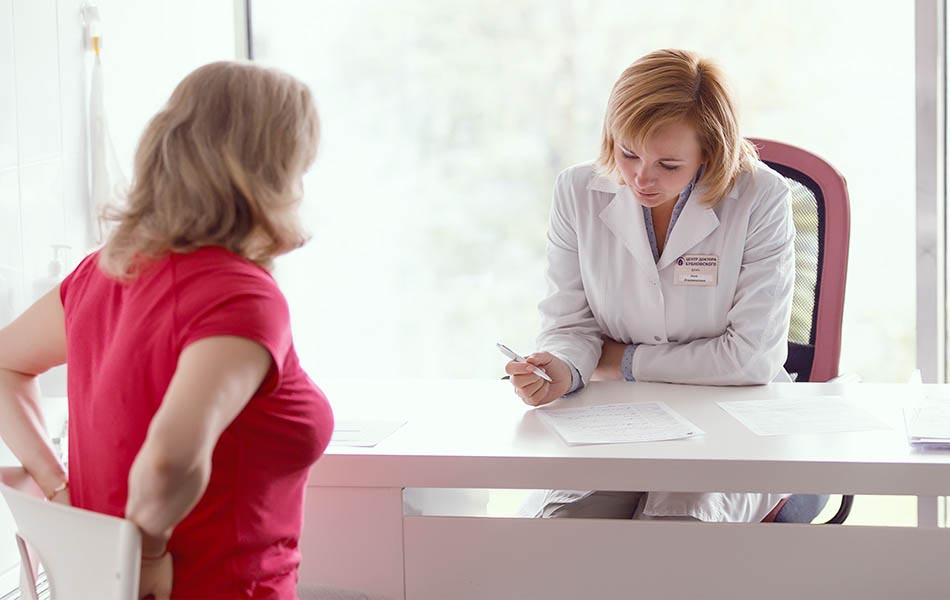
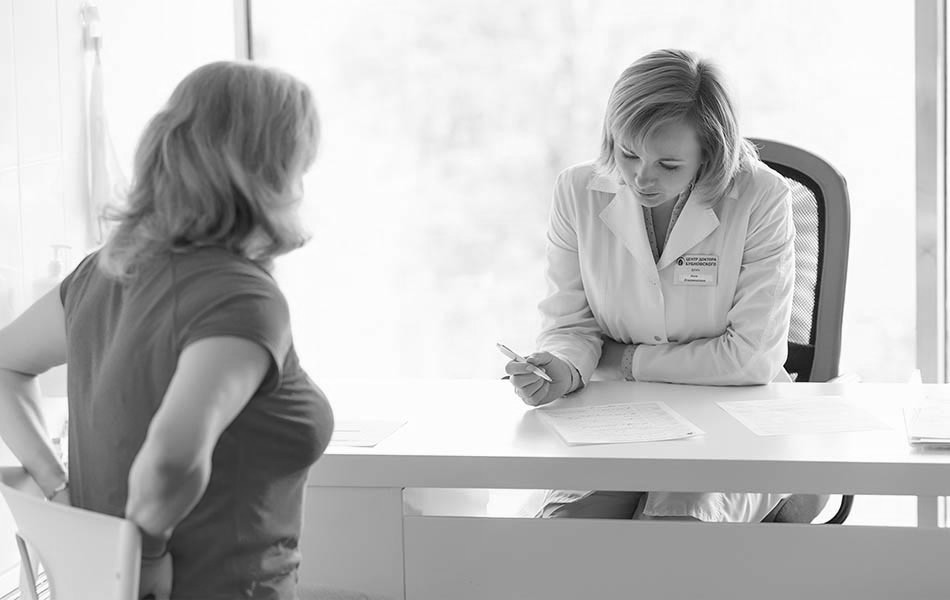
:bug: Some fixes: undefined appType in confirmation appointment page; update images; etc

diff --git a/client/src/redux/reducers/newAppointment/AppointmentFinishReducer/AppointmentFinishActions.ts b/client/src/redux/reducers/newAppointment/AppointmentFinishReducer/AppointmentFinishActions.ts
@@ -1,8 +1,9 @@
-import {SET_APPOINTMENT_FINISH_DATA, SET_APPOINTMENT_TYPE} from '../../../types';
+import {SET_APPOINTMENT_FINISH_DATA} from '../../../types';
 import {newAppointmentAPI} from '../../../../API/api';
 import {setMessage} from '../../appReducer/appAction';
 
 type setAppointmentFinishDataPayloadType = {
+  appointmentType: string | null
   date: Date,
   time: Date,
   isSelected: boolean,
@@ -12,16 +13,18 @@ type setAppointmentFinishDataType = {
   payload: setAppointmentFinishDataPayloadType,
 }
 export const setAppointmentFinishData = (date: Date, time: Date, isSelected: boolean): setAppointmentFinishDataType => {
-  return {type: SET_APPOINTMENT_FINISH_DATA, payload: {date, time, isSelected}}
+  const appointmentType = localStorage.getItem('appointmentType');
+  console.log('appointmentType', appointmentType);
+  return {type: SET_APPOINTMENT_FINISH_DATA, payload: {appointmentType, date, time, isSelected}}
 }
 
-type setAppointmentType = {
-  type: typeof SET_APPOINTMENT_TYPE,
-  payload: {appointmentType: string}
-}
-export const setAppointmentType = (appointmentType: string): setAppointmentType => {
-  return {type: SET_APPOINTMENT_TYPE, payload: {appointmentType}}
-}
+// type setAppointmentType = {
+//   type: typeof SET_APPOINTMENT_TYPE,
+//   payload: {appointmentType: string}
+// }
+// export const setAppointmentType = (appointmentType: string): setAppointmentType => {
+//   return {type: SET_APPOINTMENT_TYPE, payload: {appointmentType}}
+// }
 
 export const addPatient = (date: Date, time: Date, appointmentType: string) => {
   return async (dispatch: any, getState: any) => {

diff --git a/client/src/components/NewAppointment/AppointmentType/TypeFooter/TypeFooter.jsx b/client/src/components/NewAppointment/AppointmentType/TypeFooter/TypeFooter.jsx
@@ -5,8 +5,14 @@ import {useHistory} from "react-router-dom";
 
 const {Meta} = Card;
 
-const TypeFooter = ({title, content, cardImg, cardTitle, cardDesc, link, priceImg, appType, setAppointmentType}) => {
+const TypeFooter = ({title, content, cardImg, cardTitle, cardDesc, link, priceImg, appType}) => {
   const history = useHistory();
+
+  const onCardClick = () => {
+    //setAppointmentType(appType);
+    localStorage.setItem('appointmentType', appType);
+    history.push(link);
+  }
 
   const info = (e) => {
     e.stopPropagation();
@@ -36,11 +42,6 @@ const TypeFooter = ({title, content, cardImg, cardTitle, cardDesc, link, priceIm
       },
     });
   };
-
-  const onCardClick = () => {
-    setAppointmentType(appType);
-    history.push(link);
-  }
 
   return (
       <Card hoverable

diff --git a/client/src/components/NewAppointment/NewAppointment.jsx b/client/src/components/NewAppointment/NewAppointment.jsx
@@ -2,7 +2,6 @@ import React from 'react';
 import AppointmentType from './AppointmentType/AppointmentType';
 import NewAppointmentStyles from './NewAppointment.module.scss';
 import {connect} from "react-redux";
-import {setAppointmentType} from '../../redux/reducers/newAppointment/AppointmentFinishReducer/AppointmentFinishActions';
 
 
 const NewAppointment = (props) => {
@@ -21,7 +20,7 @@ const mapStateToProps = state => {
   }
 }
 
-export default connect(mapStateToProps, {setAppointmentType})(NewAppointment);
+export default connect(mapStateToProps, {})(NewAppointment);
 
 
 

diff --git a/controllers/adminControllers/appointmentController.js b/controllers/adminControllers/appointmentController.js
@@ -78,5 +78,3 @@ class AppointmentController {
 }
 
 module.exports = new AppointmentController();
-
-module.exports = new AppointmentController();
